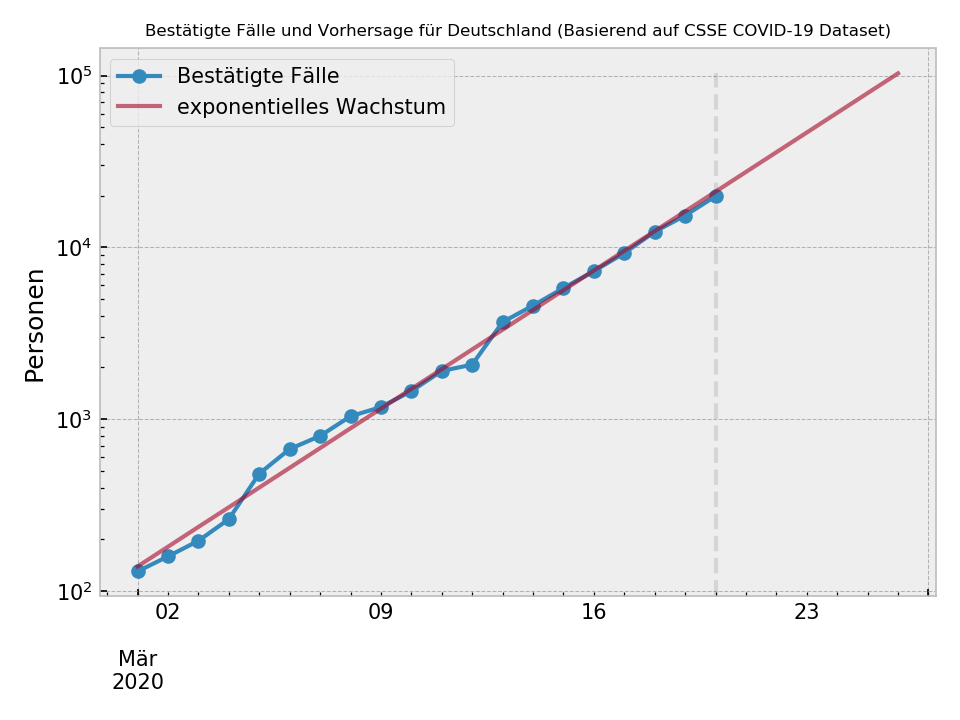
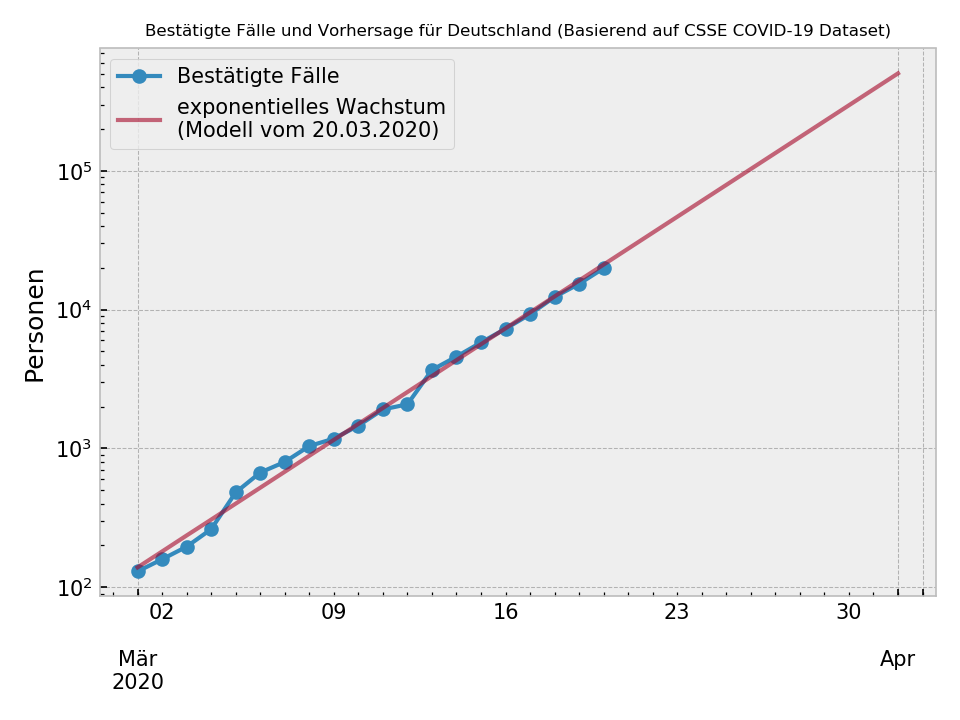
Daily Model Save

diff --git a/index.html b/index.html
@@ -8,7 +8,7 @@
   <head>
     
       <meta charset="utf-8">
-      <title>COVID-19 Germany Prediction</title>
+      <title>Bokeh Plot</title>
       
       
         
@@ -37,14 +37,14 @@
           
           
             
-              <div class="bk-root" id="33c5a89b-e0ec-4149-81a5-12bc7cd62c45" data-root-id="1093"></div>
+              <div class="bk-root" id="2ac8c68d-b054-4d9a-8a16-f88fc9899cff" data-root-id="1093"></div>
             
           
         
       
       
         <script type="application/json" id="1262">
[2 lines of base64/hex data omitted]
         </script>
         <script type="text/javascript">
           (function() {
@@ -54,7 +54,7 @@
                   function embed_document(root) {
                     
                   var docs_json = document.getElementById('1262').textContent;
-                  var render_items = [{"docid":"5f5293ea-85e4-4085-a1f5-130725a94ae3","roots":{"1093":"33c5a89b-e0ec-4149-81a5-12bc7cd62c45"}}];
+                  var render_items = [{"docid":"14439e17-4ee0-4bdc-9db4-0385bc9bf9de","roots":{"1093":"2ac8c68d-b054-4d9a-8a16-f88fc9899cff"}}];
                   root.Bokeh.embed.embed_items(docs_json, render_items);
                 
                   }

diff --git a/predict.py b/predict.py
@@ -1,17 +1,9 @@
 #!/usr/bin/env python#!/usr/bin/python
 # coding: utf-8
 
-# In[1]:
+# In[78]:
 
 
-from bokeh.plotting import figure
-from bokeh.models.formatters import DatetimeTickFormatter
-from bokeh.models import BoxAnnotation
-from bokeh.models import Div
-from bokeh.layouts import column
-from bokeh.io import output_file, save
-import numpy as np
-from sklearn.linear_model import LinearRegression
 import pandas as pd
 
 
@@ -20,15 +12,15 @@ plt.style.use('bmh')
 
 
 # # WirVsVirus Hackathon
-#
+# 
 # Die entscheidende Frage bei der Beurteilung aller Maßnahmen ist, ob das exponentielle Wachstum verlangsamt worden ist, d.h. die exponentielle Wachstumskurve abflacht.
 # Dazu macht man am besten anhand bestehender Daten ein Modell-Fit und schaut, ob aktuelle Fallzahlen das Modell überschreiten oder man mit den Fallzahlen darunter bleibt.
 
 # ## Download Data from CSSE COVID-19 Dataset
-#
+# 
 # We are using the Covid-19 Dataset: https://github.com/CSSEGISandData/COVID-19
 
-# In[2]:
+# In[79]:
 
 
 url = 'https://raw.githubusercontent.com'
@@ -37,13 +29,13 @@ url += '/master/csse_covid_19_data/csse_covid_19_time_series'
 url += '/time_series_19-covid-Confirmed.csv'
 
 
-# In[3]:
+# In[80]:
 
 
 confirmed = pd.read_csv(url)
 
 
-# In[4]:
+# In[81]:
 
 
 confirmed.head()
@@ -51,36 +43,42 @@ confirmed.head()
 
 # ### Preprocessing
 
-# In[5]:
+# In[82]:
 
 
-ger_confirmed = confirmed[confirmed['Country/Region'] == 'Germany'].T
+ger_confirmed = confirmed[confirmed['Country/Region']=='Germany'].T
 ger_confirmed = ger_confirmed[4:].astype('int')
 ger_confirmed.columns = ['confirmed']
 
 
-# In[6]:
+# In[83]:
 
 
 ger_confirmed.index = pd.to_datetime(ger_confirmed.index)
 ger_confirmed = ger_confirmed.asfreq('D')
 
 
-# In[7]:
+# In[84]:
 
 
-ger_confirmed = ger_confirmed[ger_confirmed.confirmed > 100]
+ger_confirmed = ger_confirmed[ger_confirmed.confirmed>100]
+
+
+# In[85]:
+
+
+today = ger_confirmed.index[-1]
 
 
 # ## Feature
 
-# In[8]:
+# In[86]:
 
 
 ger_confirmed['days'] = (ger_confirmed.index - ger_confirmed.index.min()).days
 
 
-# In[9]:
+# In[87]:
 
 
 ger_confirmed.head()
@@ -88,10 +86,14 @@ ger_confirmed.head()
 
 # ## Prediction Model
 
-# In[10]:
+# In[88]:
 
 
-# In[11]:
+from sklearn.linear_model import LinearRegression
+import numpy as np
+
+
+# In[89]:
 
 
 X = ger_confirmed['days'].values.reshape(-1, 1)
@@ -101,29 +103,40 @@ logy = np.log(y)
 
 # ### Train
 
-# In[12]:
+# In[90]:
 
 
 clf = LinearRegression()
 clf.fit(X, logy)
 
 
-# In[13]:
+# In[91]:
 
 
 logy_pred = clf.predict(X)
 ger_confirmed['predicted'] = np.exp(logy_pred).astype('int')
 
 
+# ## Save the model for later use
+
+# In[95]:
+
+
+import pickle
+
+with open('%s-Germany-Covid19-Prediction-Model.pkl' % today.strftime('%Y-%m-%d'), 'wb') as f:
+    pickle.dump(clf, f)
+
+
 # ## Future
 
-# In[17]:
+# In[96]:
 
 
-fd = 7  # days into the future
+fd = 13 # days into the future
 
 
-# In[18]:
+# In[97]:
 
 
 # Create DataFrame in the Future
@@ -133,7 +146,7 @@ days_in_future = ger_confirmed.days[-1] + np.arange(1, fd)
 future = pd.DataFrame(data=days_in_future, index=dates, columns=['days'])
 
 
-# In[19]:
+# In[98]:
 
 
 ger_future = ger_confirmed.append(future, sort=True)
@@ -141,13 +154,13 @@ ger_future = ger_confirmed.append(future, sort=True)
 
 # ### Predict the Future
 
-# In[20]:
+# In[99]:
 
 
 X_future = ger_future['days'].values.reshape(-1, 1)
 
 
-# In[21]:
+# In[100]:
 
 
 logy_pred = clf.predict(X_future)
@@ -156,37 +169,44 @@ ger_future['predicted'] = np.exp(logy_pred).astype('int')
 
 # ## Future Plot
 
-# In[22]:
+# In[101]:
 
 
-today = ger_confirmed.index[-1]
 title = 'Bestätigte Fälle und Vorhersage für Deutschland (Basierend auf CSSE COVID-19 Dataset)'
 
 
-# In[23]:
+# In[102]:
 
 
 ax = ger_future['confirmed'].plot(label='Bestätigte Fälle', marker='o')
-ax = ger_future['predicted'].plot(label='exponentielles Wachstum', alpha=0.6, ax=ax)
+ax = ger_future['predicted'].plot(label='exponentielles Wachstum\n(Modell vom %s)' % today.strftime('%d.%m.%Y'),
+                                  alpha=0.6, ax=ax)
 
-ax.vlines(x=today, ymin=0, ymax=ger_future.predicted.max(), alpha=.1, linestyle='--')
 ax.legend()
-ax.set_ylabel('Personen')
+ax.set_ylabel('Personen');
 ax.set_yscale('log')
-ax.set_title(title, fontsize=8)
+ax.set_title(title, fontsize=8);
 
 plt.tight_layout()
 plt.savefig('./%s-Germany-Covid19-Prediction.png' % today.strftime('%Y-%m-%d'), dpi=150)
 plt.close()
 
 # # Interactive Website
-#
+# 
 # We are using Bokeh to export an interactive website
 
-# In[24]:
+# In[103]:
 
 
-# In[25]:
+from bokeh.plotting import figure
+from bokeh.models.formatters import DatetimeTickFormatter
+from bokeh.models import BoxAnnotation
+from bokeh.models import Div
+from bokeh.layouts import column
+from bokeh.io import output_file, save
+
+
+# In[104]:
 
 
 p = figure(plot_width=1280, plot_height=720,
@@ -194,29 +214,28 @@ p = figure(plot_width=1280, plot_height=720,
            title=title)
 
 p.line(ger_future.index, ger_future.predicted, line_width=5,
-       legend='exponentielles Wachstum')
+       legend='exponentielles Wachstum\n(Modell vom %s)' % today.strftime('%d.%m.%Y'))
 
 p.circle(ger_confirmed.index, ger_confirmed.confirmed,
          fill_color="white", size=12, legend='Bestätigte Fälle')
 
-p.xaxis.formatter = DatetimeTickFormatter(
+p.xaxis.formatter=DatetimeTickFormatter(
     years="%d.%m.%Y",
     months="%d.%m.%Y",
     days="%A %d.%m.%Y",
 )
 
 gray_box = BoxAnnotation(left=ger_confirmed.index[0],
-                         right=ger_confirmed.index[-1],
-                         fill_color='gray', fill_alpha=0.1)
+                          right=ger_confirmed.index[-1],
+                          fill_color='gray', fill_alpha=0.1)
 p.add_layout(gray_box)
 
 p.legend.location = "top_left"
 
 div = Div(text="""Quellcode: <a href="https://github.com/balzer82/covid-germany-predictor">Covid Germany Predictor</a> unter CC-BY2.0 Lizenz on Github.""",
-          width=600, height=100)
+width=600, height=100)
 
 output_file("index.html")
-save(column(p, div), title='COVID-19 Germany Prediction')
-
+save(column(p, div))
 
 # CC-BY 2.0 Paul Balzer
